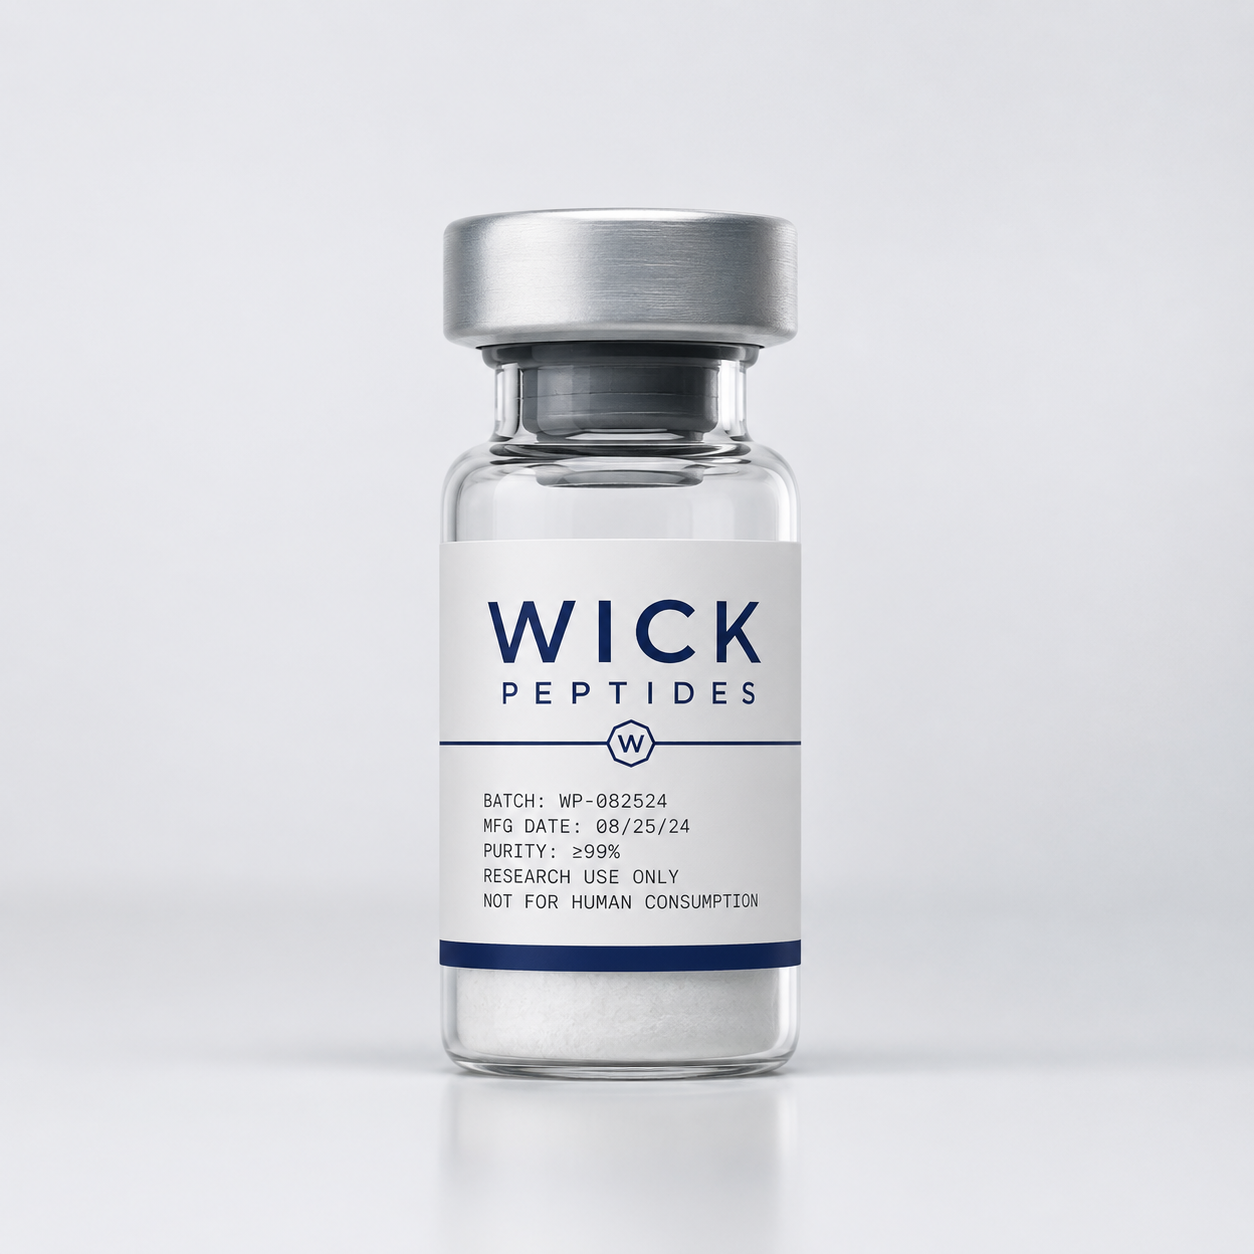
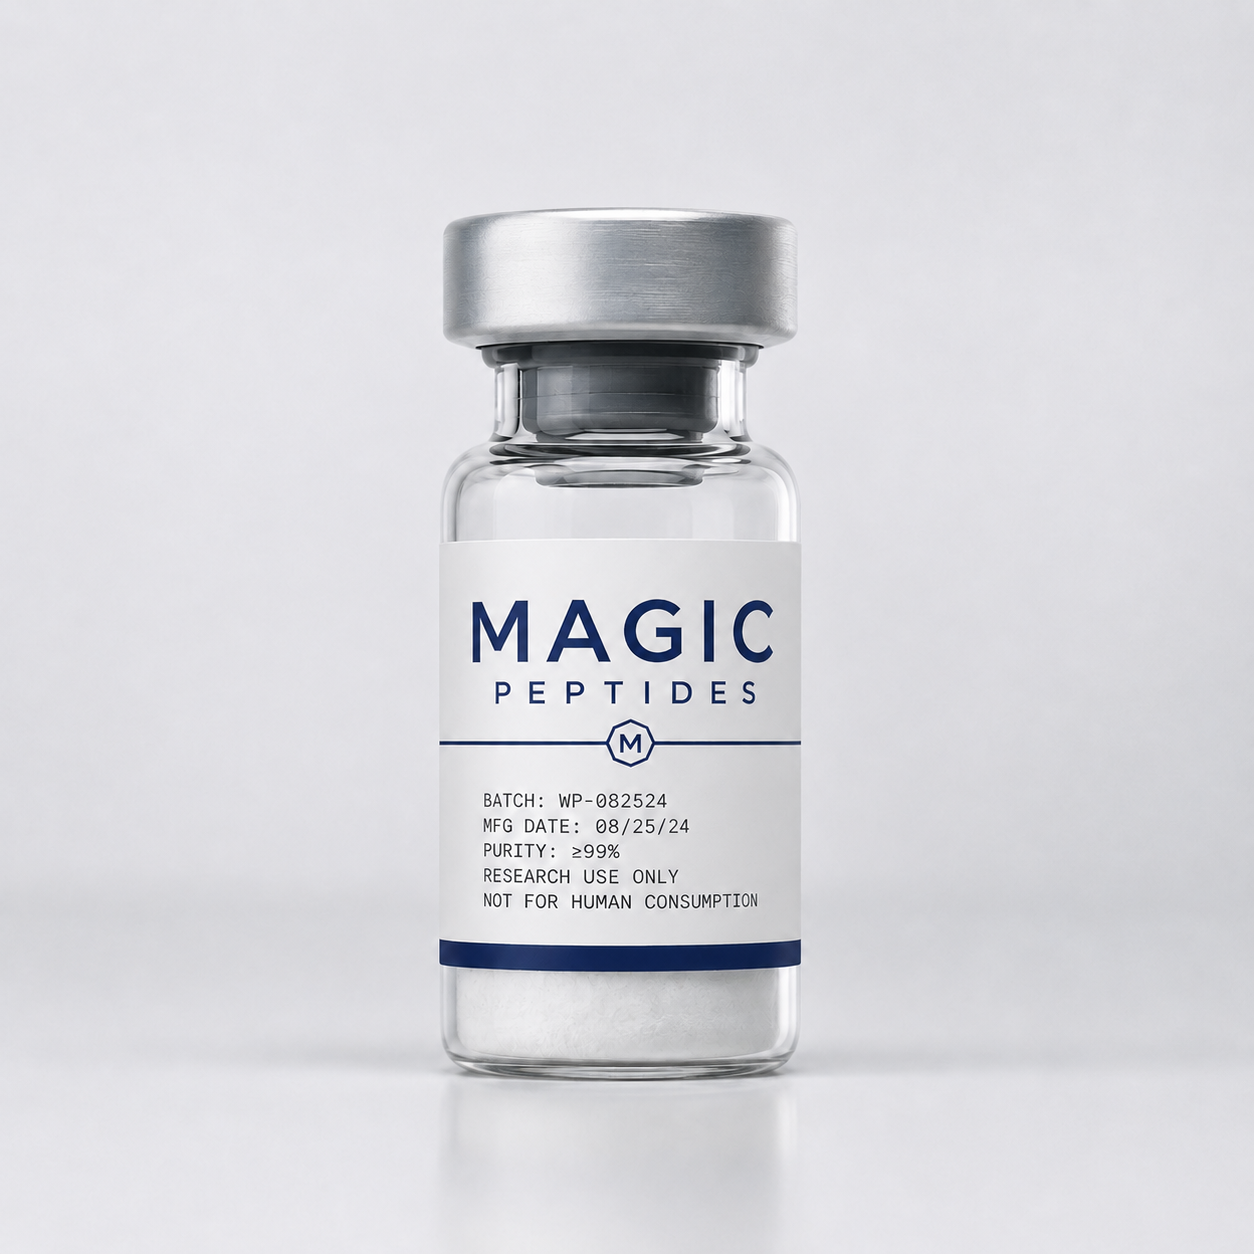
.

diff --git a/src/app/about/page.tsx b/src/app/about/page.tsx
@@ -6,12 +6,12 @@ import { SectionLabel } from "@/components/SectionLabel";
 export const metadata: Metadata = {
   title: "About",
   description:
-    "Wick Peptides exists for serious researchers who refuse to compromise. Every compound is independently tested, every COA published, every batch traceable from synthesis to bench.",
+    "Magic Peptides exists for serious researchers who refuse to compromise. Every compound is independently tested, every COA published, every batch traceable from synthesis to bench.",
 };
 
 const PARAGRAPHS = [
-  "We built Wick Peptides because we refuse to operate beneath the standard the research-compounds industry has tolerated for far too long. Most suppliers make claims they can’t back up. We back up everything we ship.",
-  "Wick Peptides was built to work differently. Every compound we carry is independently tested, every COA is published, and every batch is traceable from synthesis straight to your bench.",
+  "We built Magic Peptides because we refuse to operate beneath the standard the research-compounds industry has tolerated for far too long. Most suppliers make claims they can’t back up. We back up everything we ship.",
+  "Magic Peptides was built to work differently. Every compound we carry is independently tested, every COA is published, and every batch is traceable from synthesis straight to your bench.",
   "We’re not a supplement brand, and we’re not a wellness company. We exist for serious researchers who won’t compromise on what enters their lab.",
 ];
 
@@ -40,7 +40,7 @@ export default function AboutPage() {
       <section className="border-b border-border bg-brand-navy text-white">
         <div className="mx-auto w-full max-w-[1320px] px-6 py-20 lg:px-10 lg:py-32">
           <SectionLabel className="text-white/70 [&>span:first-child]:bg-white/70">
-            About / Wick Peptides
+            About / Magic Peptides
           </SectionLabel>
           <h1 className="mt-10 font-display text-[3.25rem] font-extrabold leading-[0.92] tracking-tight sm:text-7xl lg:text-[7.5rem]">
             The Standard.

diff --git a/src/app/legal/terms/page.tsx b/src/app/legal/terms/page.tsx
@@ -5,14 +5,14 @@ import { LegalArticle, LegalSection } from "@/components/legal/LegalArticle";
 export const metadata: Metadata = {
   title: "Terms of Service",
   description:
-    "These Terms of Service govern your use of the Wick Peptides website and the purchase of research-grade compounds listed on it.",
+    "These Terms of Service govern your use of the Magic Peptides website and the purchase of research-grade compounds listed on it.",
 };
 
 export default function TermsPage() {
   return (
     <LegalArticle title="Terms of Service">
       <p className="leading-relaxed text-muted-foreground">
-        These Terms of Service govern your use of the Wick Peptides website and
+        These Terms of Service govern your use of the Magic Peptides website and
         the purchase of research-grade compounds listed on it. By accessing this
         site you agree to these terms.
       </p>
@@ -35,7 +35,7 @@ export default function TermsPage() {
 
       <LegalSection heading="Limitation of Liability">
         <p>
-          To the maximum extent permitted by law, Wick Peptides is not liable
+          To the maximum extent permitted by law, Magic Peptides is not liable
           for misuse of any product. Buyer assumes all responsibility for proper
           handling, storage and disposal.
         </p>

diff --git a/src/components/layout/Footer.tsx b/src/components/layout/Footer.tsx
@@ -95,7 +95,7 @@ export function Footer() {
             aria-hidden="true"
             className="block font-display text-[15vw] font-extrabold leading-none tracking-tighter text-white/[0.07] lg:text-[10rem]"
           >
-            Wick Peptides
+            Magic Peptides
           </span>
         </div>
 
@@ -113,11 +113,11 @@ export function Footer() {
               ))}
             </div>
             <p className="font-mono text-[11px] uppercase tracking-[0.16em] text-white/45">
-              © 2026 Wick Peptides LLC. All rights reserved.
+              © 2026 Magic Peptides LLC. All rights reserved.
             </p>
           </div>
           <p className="max-w-3xl text-xs leading-relaxed text-white/45">
-            Wick Peptides provides research-use-only materials intended for
+            Magic Peptides provides research-use-only materials intended for
             laboratory applications. Batch documentation and COAs are provided
             with each product. Not for human consumption. Email:
             [email redacted].

diff --git a/src/app/affiliates/page.tsx b/src/app/affiliates/page.tsx
@@ -8,7 +8,7 @@ import { SectionLabel } from "@/components/SectionLabel";
 export const metadata: Metadata = {
   title: "Affiliate Program",
   description:
-    "Become a Wick Peptides affiliate. Earn commissions when you refer qualified researchers to the most trusted source for research-grade compounds.",
+    "Become a Magic Peptides affiliate. Earn commissions when you refer qualified researchers to the most trusted source for research-grade compounds.",
 };
 
 const BENEFITS = [
@@ -78,7 +78,7 @@ export default function AffiliatesPage() {
             Program
           </h1>
           <p className="mt-8 max-w-2xl border-t border-border pt-8 text-lg leading-relaxed text-muted-foreground">
-            Send qualified researchers to Wick Peptides and earn 15% on every
+            Send qualified researchers to Magic Peptides and earn 15% on every
             order. The program is designed for scientists, clinicians, and
             professionals who rely on the standard we set.
           </p>

diff --git a/src/app/contact/page.tsx b/src/app/contact/page.tsx
@@ -7,7 +7,7 @@ import { ContactForm } from "@/components/contact/ContactForm";
 export const metadata: Metadata = {
   title: "Contact",
   description:
-    "Reach Wick Peptides about product questions, order issues, COA requests, and general inquiries. We reply within 24 hours, 7 days a week.",
+    "Reach Magic Peptides about product questions, order issues, COA requests, and general inquiries. We reply within 24 hours, 7 days a week.",
 };
 
 const INFO_CARDS = [
@@ -84,7 +84,7 @@ export default function ContactPage() {
               ))}
             </dl>
             <p className="mt-8 font-mono text-[11px] uppercase leading-relaxed tracking-[0.18em] text-brand-navy/45">
-              Wick Peptides / Research-Grade Compounds
+              Magic Peptides / Research-Grade Compounds
             </p>
           </aside>
         </div>

diff --git a/src/app/globals.css b/src/app/globals.css
@@ -17,7 +17,7 @@
   --color-success: var(--success);
   --color-success-foreground: var(--success-foreground);
 
-  /* Wick Peptides brand colors */
+  /* Magic Peptides brand colors */
   --color-brand-navy: #0d1b4d;
   --color-brand-blue: #1e3a8a;
   --color-brand-white: #ffffff;
@@ -170,7 +170,7 @@
 }
 
 /* ============================================================
-   Wick Peptides — bespoke utilities (ported from production CSS)
+   Magic Peptides — bespoke utilities (ported from production CSS)
    ============================================================ */
 
 @utility text-eyebrow {

diff --git a/src/app/layout.tsx b/src/app/layout.tsx
@@ -31,8 +31,8 @@ const montserrat = Montserrat({
 export const metadata: Metadata = {
   metadataBase: new URL("https://wickpeptides.com"),
   title: {
-    template: "%s — Wick Peptides",
-    default: "Wick Peptides — Confirmed Purity. Zero Compromise.",
+    template: "%s — Magic Peptides",
+    default: "Magic Peptides — Confirmed Purity. Zero Compromise.",
   },
   description:
     "Laboratory-grade compounds synthesized at certified facilities and verified by independent third-party labs. A full COA ships with every batch.",

diff --git a/src/app/legal/privacy/page.tsx b/src/app/legal/privacy/page.tsx
@@ -5,14 +5,14 @@ import { LegalArticle, LegalSection } from "@/components/legal/LegalArticle";
 export const metadata: Metadata = {
   title: "Privacy Policy",
   description:
-    "This Privacy Policy describes how Wick Peptides collects, uses and protects information about you when you visit our website or place an order.",
+    "This Privacy Policy describes how Magic Peptides collects, uses and protects information about you when you visit our website or place an order.",
 };
 
 export default function PrivacyPage() {
   return (
     <LegalArticle title="Privacy Policy">
       <p className="leading-relaxed text-muted-foreground">
-        This Privacy Policy describes how Wick Peptides collects, uses and
+        This Privacy Policy describes how Magic Peptides collects, uses and
         protects information about you when you visit our website or place an
         order.
       </p>

diff --git a/src/app/legal/research-disclaimer/page.tsx b/src/app/legal/research-disclaimer/page.tsx
@@ -5,7 +5,7 @@ import { LegalArticle } from "@/components/legal/LegalArticle";
 export const metadata: Metadata = {
   title: "Research Use Disclaimer",
   description:
-    "All products sold by Wick Peptides are for in-vitro laboratory research use only and are not intended for human or veterinary use.",
+    "All products sold by Magic Peptides are for in-vitro laboratory research use only and are not intended for human or veterinary use.",
 };
 
 export default function ResearchDisclaimerPage() {
@@ -13,7 +13,7 @@ export default function ResearchDisclaimerPage() {
     <LegalArticle title="Research Use Disclaimer">
       <p>
         <strong>
-          All products sold by Wick Peptides are for in-vitro laboratory
+          All products sold by Magic Peptides are for in-vitro laboratory
           research use only.
         </strong>
       </p>

diff --git a/src/app/sitemap/page.tsx b/src/app/sitemap/page.tsx
@@ -7,7 +7,7 @@ import { SectionLabel } from "@/components/SectionLabel";
 export const metadata: Metadata = {
   title: "Sitemap",
   description:
-    "A complete directory of every page across the Wick Peptides website — shop, products, legal documents, and account pages.",
+    "A complete directory of every page across the Magic Peptides website — shop, products, legal documents, and account pages.",
 };
 
 type SitemapLink = { label: string; href: string; description?: string };
@@ -99,7 +99,7 @@ export default function SitemapPage() {
             Sitemap
           </h1>
           <p className="mt-5 max-w-xl leading-relaxed text-white/70">
-            A full directory of every page across the Wick Peptides website.
+            A full directory of every page across the Magic Peptides website.
           </p>
         </div>
       </section>

diff --git a/src/components/home/StatsSection.tsx b/src/components/home/StatsSection.tsx
@@ -19,7 +19,7 @@ const METRICS = [
 ];
 
 const PURITY_COMPARISON = [
-  { name: "Wick Peptides", value: 99.7, highlight: true },
+  { name: "Magic Peptides", value: 99.7, highlight: true },
   { name: "Supplier A", value: 96.2 },
   { name: "Supplier B", value: 94.8 },
   { name: "Supplier C", value: 92.1 },
@@ -167,7 +167,7 @@ export function StatsSection() {
           index="04"
           label="The Numbers Back It Up"
           title="The Benchmark For Researchers Who Won't Settle."
-          lede="Independent labs, performance clinicians, and applied research teams across four continents ask for Wick Peptides by name. Here is what sets us apart."
+          lede="Independent labs, performance clinicians, and applied research teams across four continents ask for Magic Peptides by name. Here is what sets us apart."
         />
 
         {/* Metric ledger */}

diff --git a/src/components/layout/Navbar.tsx b/src/components/layout/Navbar.tsx
@@ -87,7 +87,7 @@ export function Navbar() {
           <Link
             href="/"
             className="flex shrink-0 items-center gap-2.5 justify-self-center"
-            aria-label="Wick Peptides home"
+            aria-label="Magic Peptides home"
           >
             <span
               aria-hidden="true"
@@ -96,7 +96,7 @@ export function Navbar() {
               W
             </span>
             <span className="font-display text-lg font-extrabold tracking-tight text-brand-navy sm:text-xl">
-              Wick Peptides
+              Magic Peptides
             </span>
           </Link>
 